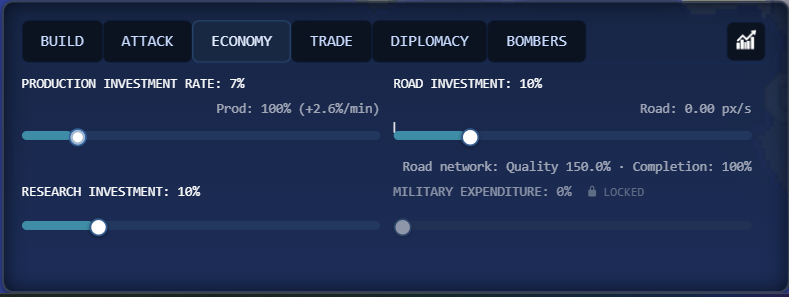
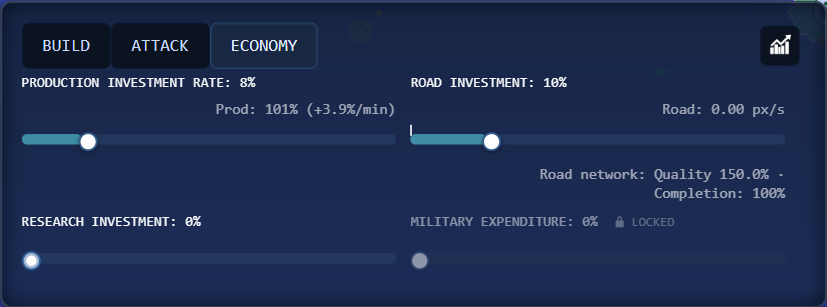
Update Help Modal for Recent UI Changes
Updated the Help Modal to reflect recent UI changes, including removal of deprecated tabs, addition of manual bomber targeting feature, and refreshed screenshots showing the current UI state.

Screenshot Updates (6 files):
- AllUiIngame.png - Full interface overview
- CC-Attack.png - Command Center Attack tab
- CC-Build.png - Command Center Build tab
- CC-Economoy.png - Command Center Economy tab
- RadialMenu.png - Updated radial menu showing bomber targeting option
- ReseacrhTree-Land.png - Tech tree interface

Removed Deprecated Features:
- Removed Diplomacy Tab section and screenshots (no longer exists in UI)
- Removed Bombers Tab section and screenshots (no longer exists in UI)
- Command Center now correctly shows only 3 tabs: Build, Attack, and Economy

New Feature Documentation:
- Added manual bomber targeting to Radial Menu section
- Uses airfield-icon (consistent with actual radial menu implementation)
- Explains how players can manually direct bomber strikes to specific structures

Bug Fixes:
- Fixed raw HTML display in tech tree overview description
- Corrected tech tree category count from five to four (Economy removed)
- Updated category list to: Land, Sea, Air, Nuclear

diff --git a/src/client/HelpModal.ts b/src/client/HelpModal.ts
@@ -390,20 +390,6 @@ export class HelpModal extends LitElement {
         altKey: "ui_guide.command_center_economy_alt",
         icon: `<svg viewBox="0 0 24 24" fill="none" stroke="currentColor" stroke-width="2" stroke-linecap="round" stroke-linejoin="round"><line x1="12" y1="1" x2="12" y2="23"/><path d="M17 5H9.5a3.5 3.5 0 0 0 0 7h5a3.5 3.5 0 0 1 0 7H6"/></svg>`,
       },
-      {
-        titleKey: "ui_guide.command_center_diplomacy_title",
-        descKey: "ui_guide.command_center_diplomacy_desc",
-        img: "/images/HelpModalScreenshots/CC-Diplomacy.png",
-        altKey: "ui_guide.command_center_diplomacy_alt",
-        icon: `<svg viewBox="0 0 24 24" fill="none" stroke="currentColor" stroke-width="2" stroke-linecap="round" stroke-linejoin="round"><path d="M17 21v-2a4 4 0 0 0-4-4H5a4 4 0 0 0-4 4v2"/><circle cx="9" cy="7" r="4"/><path d="M23 21v-2a4 4 0 0 0-3-3.87"/><path d="M16 3.13a4 4 0 0 1 0 7.75"/></svg>`,
-      },
-      {
-        titleKey: "ui_guide.command_center_bombers_title",
-        descKey: "ui_guide.command_center_bombers_desc",
-        img: "/images/HelpModalScreenshots/CC-Bombers.png",
-        altKey: "ui_guide.command_center_bombers_alt",
-        icon: `<svg viewBox="0 0 24 24" fill="none" stroke="currentColor" stroke-width="2" stroke-linecap="round" stroke-linejoin="round"><path d="M2 12h20"/><path d="M12 2v20"/><path d="m4.93 4.93 14.14 14.14"/><path d="m19.07 4.93-14.14 14.14"/></svg>`,
-      },
     ];
 
     const radialItems = [
@@ -414,6 +400,7 @@ export class HelpModal extends LitElement {
       "ui_guide.radial_peace",
       "ui_guide.radial_war",
       "ui_guide.radial_air",
+      "ui_guide.radial_bomber",
       "ui_guide.radial_attack",
     ];
 
@@ -561,6 +548,10 @@ export class HelpModal extends LitElement {
                 <li>
                   <div class="icon air-attack-icon inline-icon"></div>
                   ${unsafeHTML(this.t("ui_guide.radial_air"))}
+                </li>
+                <li>
+                  <div class="icon airfield-icon inline-icon"></div>
+                  ${unsafeHTML(this.t("ui_guide.radial_bomber"))}
                 </li>
                 <li>
                   <div class="icon sword-icon inline-icon"></div>
@@ -1229,7 +1220,9 @@ export class HelpModal extends LitElement {
           </div>
           <div class="help-row">
             <div class="help-col">
-              <p class="mb-3">${this.t("tech_tree.overview_desc")}</p>
+              <p class="mb-3">
+                ${unsafeHTML(this.t("tech_tree.overview_desc"))}
+              </p>
             </div>
             <div class="help-col">
               <img
